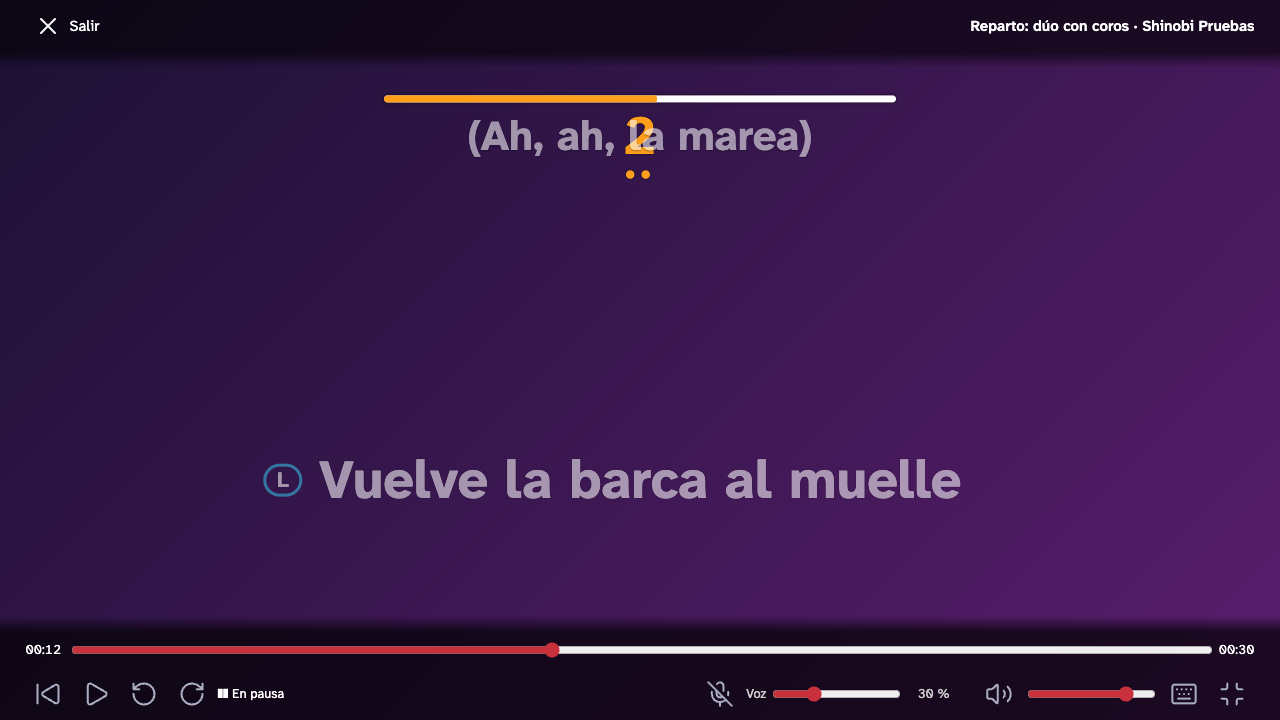
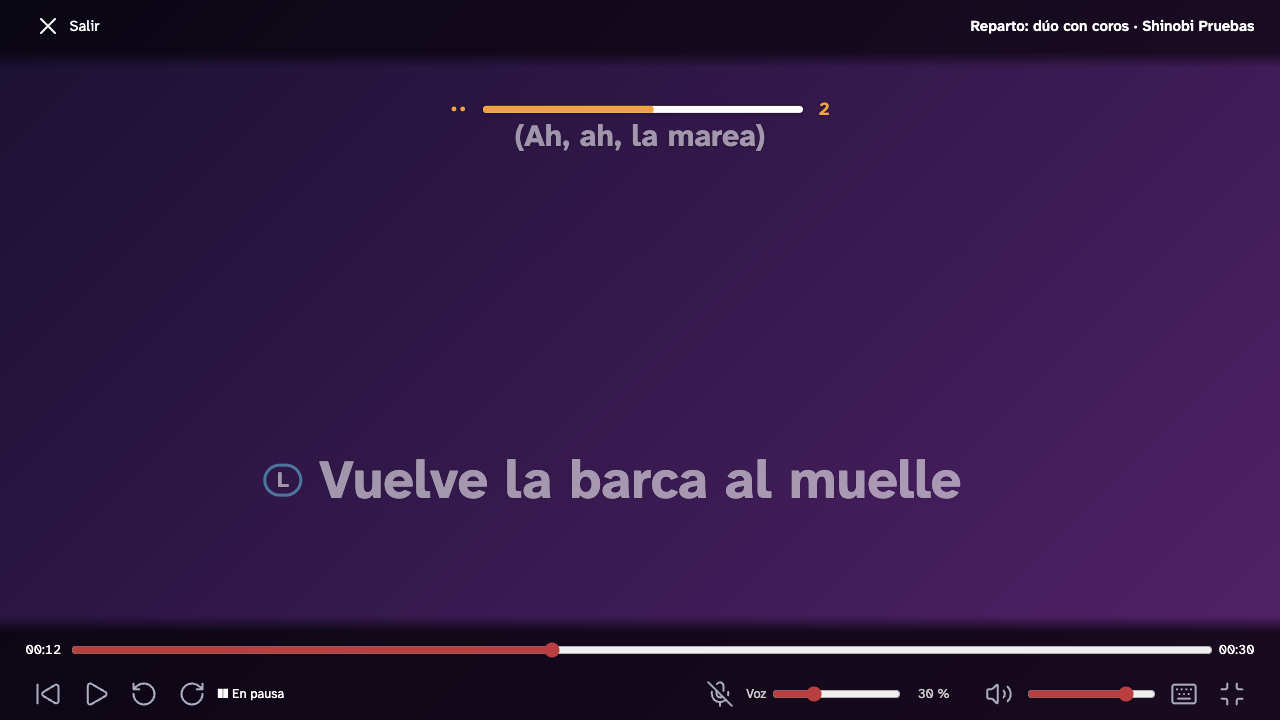
0.2.3: revisiones de diseño de las features 1, 2 y 3; pregunta 0380 respondida; specs 06 y 07 con las correcciones
Claude-Session: https://claude.ai/code/session_01CwzfmPpxsz6LQucdx3rwJV

Changed region(s): [[0.2812, 0.1222, 0.7188, 0.2139]]

diff --git a/ux/revisiones/0.2.3-feature-1/revision.md b/ux/revisiones/0.2.3-feature-1/revision.md
@@ -1,0 +1,113 @@
+# Revisión de diseño · 0.2.3 · Feature 1 — Cantantes por línea (editor)
+
+Fecha: 2026-11-23. Revisa el Diseñador UX. Alcance: **solo las capturas del editor** (`editor-*.png`, 57 archivos: 19 estados a 1280 × 720 al 100 % y al 125 % y a 1024 × 576). Las del reproductor se revisarán aparte, cuando estén regeneradas.
+
+Referencia: [06 · 0.2.3 · Feature 1](../../06-editor.md#023--feature-1--cantantes-por-línea) y [sistema visual · 0.2.3](../../sistema-visual.md#023--varios-cantantes-y-coros). Gravedad: **bloquea** (se corrige antes de cerrar la alpha) o **menor** (se puede corregir después).
+
+## Veredicto por criterio
+
+Los criterios de comportamiento (deshacer, teclas, datos) no se ven en una captura: se dan por cubiertos si los tests de la tarea los comprueban.
+
+| Criterio | Veredicto | Notas |
+|---|---|---|
+| C1-E1 | Cumple | `sin-reparto`: sin chips, sin fila «Canta», pista única, sin «Juntar carriles» y vista previa sin insignias. |
+| C1-E2 – C1-E6 | Tests | `menu-quien-canta` y `seleccion-multiple` muestran el punto de partida correcto. |
+| C1-E7 | Cumple | Dúo: Cantante 1, Cantante 2, Coro, separador, «Todos (los dos)» con T, separador, añadir y nombres. Trío: Todos con el icono `users` junto a los cantantes y antes del Coro. |
+| C1-E8 | Cumple con corrección menor | `carril-vacio`: carril con `edi.partes.carrilVacio`; la línea base de la onda atraviesa el texto (corrección 5). |
+| C1-E9 | No verificable | `funciones-cuatro` no deja ver `edi.partes.maximo`: la sección queda cortada tras «Ana» (corrección 10). |
+| C1-E10 | Cumple (lo visible) | Iniciales A, L, M; «1», «3», «4» con nombre predeterminado; Todos «A·L» en dúo e icono `users` con 3 o más. «An»/«Al»: tests. |
+| C1-E11, C1-E12 | Tests | |
+| C1-E13 | Cumple con corrección menor | Orden 1…4, Todos, Coro; un cantante con coros, dos carriles; la onda de fondo detrás de todos. La etiqueta de 72 px corta «Todos» («Tod…», «To…» con «A·L») y «Cantante» («Can…») (corrección 3). |
+| C1-E14 | No cumple | `arrastre-carril`: con la franja «+ Nuevo cantante», el carril del Coro queda debajo de la vista general, así que no se puede soltar en él; la región arrastrada no se ve y no hay carril de destino resaltado (correcciones 2 y 9). |
+| C1-E15 | No cumple (fila de controles) | Altos: sin scroll de página; zona superior ≈ 170 px a 1280 al 100 % con 6 carriles y ≈ 150 px al 125 % (≥ 136). A 1024 × 576 y al 125 %, con 4 o más carriles se juntan solos con el botón inactivo. **Pero** la fila de controles de la línea de tiempo se recorta: «Ajustar los silencios» queda como un botón vacío de unos 30 px (corrección 1). |
+| C1-E16 | Cumple | `carriles-juntos`: franja de 3 px en el color de la parte e inicial en cada región; el botón pasa a «Separar carriles». La preferencia: tests. |
+| C1-E17 | Parcial | `estilo-colores`: «Ana = Color de lo ya cantado ↑», Luis `#35C6E8` y Todos con selector; el Coro y «Más colores» quedan fuera de la captura (corrección 10). El chip de esta sección se estira a 40 px (corrección 6). |
+| C1-E18 | Tests | |
+| C1-E19 | Cumple | `aviso-parte`: ⚠ `edi.contraste.parte` con «Sugerir un color» y punto en la pestaña; dos ⓘ `edi.contraste.partesParecidas` (Ana/Coro y Luis/Todos), esperados con los colores predeterminados y sin punto (anotado en el sistema visual). |
+| C1-E20 – C1-E22 | Tests | |
+| C1-E23 | Cumple con corrección menor; falta medirlo | 256 px: chips enteros y sin scroll, pero el texto de la fila mide ≈ 100 px porque el hueco del chip ocupa ≈ 57 px; la spec pedía ≥ 160 px, cifra que no se podía alcanzar con la bandera y el tiempo de 0.2.2. La spec pasa a ≥ 96 px y C1-E23 queda medible (corrección 8). 300 px: la fila «Canta» cabe; en Funciones la ayuda toca la barra de desplazamiento (corrección 7). |
+| C1-E24 | Cumple con capturas por repetir | Están los 14 estados pedidos y 5 más; cuatro capturas por repetir y una nueva (corrección 10). |
+| C1-E25 | Sin captura | Se añade el estado `estilo-voces` a C1-E24 (corrección 10). |
+
+## Avisos del programador
+
+| Aviso | Decisión |
+|---|---|
+| «Todos» se corta a «Tod…» en el carril de 72 px | La etiqueta del carril pasa a 96 px y el nombre predeterminado se escribe «Cantante» (corrección 3). |
+| A 1024 × 576 se recorta la fila de controles | Ya incumplía AS1 («solo icono por debajo de 1280 px»), también sin reparto. «Juntar carriles» sigue la misma regla (corrección 1). |
+| C1-E23 sin medir | El criterio queda con medidas concretas y el número del texto se corrige en la spec (corrección 8). |
+| Falta `coros-preparando` | Es de la feature 2: ver [su revisión](../0.2.3-feature-2/revision.md). |
+
+## Correcciones
+
+1. **Bloquea.** Fila de controles de la línea de tiempo por debajo de 1280 px de ancho efectivo (1024 × 576 y 1280 × 720 al 125 %):
+   - «Ajustar los silencios» y «Juntar / Separar carriles» se muestran **solo con su icono** (`fold-vertical` para juntar). Llevan tooltip y nombre accesible con el texto completo y conservan `aria-pressed` y `aria-disabled` con `edi.partes.juntosSinEspacio`.
+   - Ningún botón de la fila puede ser más estrecho que su contenido.
+   - Spec: 06 · «Juntar carriles» y C1-E15.
+2. **Bloquea.** Durante un arrastre, el alto efectivo de la pista cuenta la franja «+ Nuevo cantante» (y la de Todos en un dueto) como un carril de 24 px:
+   - Ningún carril queda debajo de la vista general ni recortado.
+   - Si no cabe, cede la zona superior, como con un carril más, y todo vuelve al soltar o cancelar.
+   - Spec: 06 · «Soltar en "+ Nuevo cantante"» y C1-E15.
+3. **Menor.** La columna de etiquetas de carril pasa de 72 a 96 px:
+   - «Todos» y «Coro» caben enteros.
+   - Con el nombre predeterminado la etiqueta dice «Cantante» (el número va en el chip).
+   - Tooltip y nombre accesible con el nombre completo.
+   - Spec: 06 · «Etiqueta del carril», C1-E13 y sistema visual.
+4. **Menor.** Con carriles, los mensajes de la onda («Preparando forma de onda…», la disponibilidad tras la separación y «Forma de onda no disponible») salen de los carriles:
+   - En `coros-sin-voz`, el texto «Disponible…» asoma debajo de la primera región.
+   - Pasan a la celda vacía sobre las etiquetas: icono `audio-waveform` en `texto-3`, con tooltip y `aria-describedby`; «Reintentar» va en el tooltip y en el menú contextual de la pista.
+   - Spec: 06 · «Mensajes de la onda con carriles».
+5. **Menor.** Carril vacío: el texto `edi.partes.carrilVacio` lleva un fondo del color del carril y 8 px de relleno lateral, para que la línea base de la onda no lo atraviese. Spec: sistema visual · «Carril vacío».
+6. **Menor.** El chip de Funciones y Estilo es el mismo que en la lista:
+   - Ancho según el contenido, con un mínimo de 24 px.
+   - Va alineado en una columna de 40 px, sin estirarse a lo ancho de ella.
+   - Spec: sistema visual · «Chip de parte».
+7. **Menor.** El panel a 300 px reserva el hueco de la barra de desplazamiento (`scrollbar-gutter: stable`, o 12 px de relleno a la derecha): en `funciones-300`, «se ve» de la ayuda queda debajo de la barra. Spec: C1-E23.
+8. **Menor.** Lista:
+   - El hueco del chip mide el chip más ancho de la canción más 8 px a cada lado (hoy ≈ 57 px fijos).
+   - A 256 px el texto mide ≥ 96 px.
+   - El test de C1-E23 comprueba `scrollWidth ≤ clientWidth` en la lista, el panel y la sección, el alto de 20 px de cada chip y el ancho del texto.
+   - Spec: 06 · «Ancho» y C1-E23.
+9. **Menor.** La franja de destino («+ Nuevo cantante», «Todos») lleva el borde de destino (2 px `acento-texto`) con el puntero encima, como un carril. Spec: 06 y sistema visual · «Franja de destino».
+10. **Menor.** Capturas por repetir, a los tres tamaños, desplazando el panel hasta que la sección se vea entera (C1-E24 actualizado):
+
+    | Captura | Qué debe verse |
+    |---|---|
+    | `estilo-colores` | Hasta el Coro y «Más colores». |
+    | `funciones-varios` | Todos, Coro y «+ Añadir cantante». |
+    | `funciones-cuatro` | Hasta `edi.partes.maximo`. |
+    | `arrastre-carril` | El puntero sobre un carril de destino, con la región arrastrada visible y el borde de destino. Si la región no se dibuja durante el arrastre, el fallo es de la corrección 2 y bloquea. |
+    | `estilo-voces` (nueva) | «Letra en pantalla › Varias voces» con la nota `edi.pantalla.zonas`. |
+
+## Reproductor (segunda parte, 2026-11-23)
+
+Capturas `reproductor-*.png`: 9 estados a 1920 × 1080 y a 1280 × 720, más `cuatro-tercios-duo` a 1440 × 1080. Referencia: [07 · 0.2.3 · Feature 1](../../07-reproductor.md#023--feature-1--cantantes-por-línea-en-pantalla).
+
+| Criterio | Veredicto | Notas |
+|---|---|---|
+| C1-R1 | Tests | Es una regresión del modelo; no tiene captura. |
+| C1-R2 | Cumple | Dúo con coro: Coro arriba, con media altura y una línea; debajo, Ana y Luis. Las zonas están en el mismo sitio en todas las capturas del dúo, con la de Ana vacía en `duo-coro` sin que se recoloque nada. `solo-coros`: dos zonas, con el Coro arriba. |
+| C1-R3 | Cumple | `duo-canta-2`: la zona de Luis va al 100 %, con el barrido en `#35C6E8` y la insignia «L»; la de Ana muestra su próxima línea al 55 % sin barrido; lo que falta por cantar va en el color de la letra. |
+| C1-R4 | Cumple | `duo-todos`: la misma línea en las dos zonas, barrida en lavanda y con «A·L». `cuarteto-coro`: Todos lleva el icono `users`. |
+| C1-R5 | Cumple | La línea de coro lleva un solo par de paréntesis (el texto ya los traía) y no lleva insignia. |
+| C1-R6 | Cumple (visual) | A 1440 × 1080 la línea más ancha, con su insignia, ocupa ≈ 76 % del ancho. El cuarteto con coro a 1280 × 720 cabe sin cortes y cada línea queda dentro de su zona. El 75 % de `S` se comprueba en el test. |
+| C1-R7 | Cumple (visual) | La insignia queda a la izquierda del primer renglón sin tocarlo y su borde lleva el color de la parte. Las medidas exactas, en el test. |
+| C1-R8 | Cumple | `letra-lista-duo`: cada texto va entero en el color de su parte, sin barrido; la zona que suena al 100 % y las demás al 55 %. |
+| C1-R9 | Cumple | `espera-zona` (fila de 0360): los indicadores van en la zona del coro, en naranja, en una fila sobre la línea y sin tocarla. De izquierda a derecha: puntos, barra (25 % del ancho, porque lleva la cuenta al lado) y la cuenta «2». Antes de una línea de Todos se ve en la feature 3 (`espera-tras-solape`): una sola vez, en la primera zona y en lavanda. |
+| C1-R10, C1-R11 | Tests | No hay captura de «Todas en un bloque». La vista previa del editor coincide a ojo con el reproductor en `lista-varios` y `duo-canta-2`. |
+| C1-R12 | Cumple | Están las 19 capturas pedidas. |
+
+**Correcciones del reproductor**
+
+11. **Menor** (es de la spec y ya está corregido). 07 decía que en «Un solo cantante con coros» el Coro iba «abajo», en contra de la regla «Orden». Las capturas siguen la regla, con el Coro arriba. El texto de 07 está corregido.
+
+**Observaciones sin cambio**
+
+- `escala-de-grises`: se sigue sabiendo quién canta (por la zona, la insignia y la opacidad). Lo ya cantado en el cian de Luis queda como un gris claro, poco distinto del blanco de lo que falta, que es el caso que cubre el subrayado de 0.2.2 · F2. No se cambia nada: va a la guía manual con el simulador de deuteranopía.
+- En `duo-canta-1` y `duo-canta-2` la próxima línea de Todos sale dos veces (como próxima de una zona y como siguiente de la otra), a tamaños distintos. Es la consecuencia diseñada de que Todos no tenga zona propia (0170 n.º 4, provisional).
+
+## Observaciones sin cambio (editor)
+
+- La línea horizontal que cruza el carril central es la línea base de la onda de fondo (pista sintética sin picos): es lo esperado.
+- En la vista previa, una línea de Todos aparece en la zona de cada cantante: es lo diseñado ([07](../../07-reproductor.md), C1-R4).
+- A 1024 × 576 la lista muestra fila y media, y la cabecera «Líneas» corta el recuento cuando aparece la bandera de la revisión guiada. Ya pasaba en 0.2.2 y no es de esta feature.

diff --git a/ux/sistema-visual.md b/ux/sistema-visual.md
@@ -467,7 +467,7 @@ Comportamiento en [Editor · 0.2.3](06-editor.md#023--feature-1--cantantes-por-l
 | Cantante 2 | `#35C6E8` (cian profundo) | Revisión 2026-11-23 (pregunta 0345): sustituye a `#4ADEDE`, que frente a la letra blanca daba ΔE simulado 16,5 (protanopía) y un ⚠ en todo dúo. Con el tema «Shinobi», medido con `contraste.ts`: 5,63:1 con el fondo (peor muestra), ΔE 46,0 con la letra, ΔE simulado 31,9; sin ⚠. Sigue siendo un azul claro, distinto de rosa, lima, lavanda y naranja. (El cian `#4ADEDE` sigue entre las muestras sugeridas de §8: allí lo elige el usuario y el aviso le informa.) |
 | Cantante 3 | `#FF5C8A` (rosa) | ≈ 3,9:1 sobre `#5A1E6E` (la zona más clara del degradado). |
 | Cantante 4 | `#7CFF6B` (lima) | Con deuteranopía puede confundirse con el oro (`#FFD400`): da el ⓘ informativo. |
-| Todos | `#B388FF` (lavanda) | ≈ 4,2:1 sobre `#5A1E6E`. |
+| Todos | `#B388FF` (lavanda) | ≈ 4,2:1 sobre `#5A1E6E`. Con daltonismo se acerca al cian del Cantante 2: un dúo con Todos da el ⓘ informativo (visto en la revisión 2026-11-23; no enciende el punto de la pestaña). |
 | Coro | `#FF9F1C` (naranja) | ≈ 5,5:1 sobre `#5A1E6E`. Con daltonismo se acerca al oro: lo distinguen los paréntesis y su zona. |
 
 Valores calculados a mano con la fórmula WCAG (orientativos); el test de C1-E19 los comprueba con la función de contraste. Si alguno diese ⚠ sobre el tema «Shinobi», se cambia la ranura antes de publicar.
@@ -505,13 +505,13 @@ Valores calculados a mano con la fórmula WCAG (orientativos); el test de C1-E19
 
 | Componente | Tratamiento visual |
 |---|---|
-| **Chip de parte** (lista, panel, menú) | Píldora de 20 px de alto, ancho mínimo 24 px, radio completo, sin relleno, borde 2 px en el color de la parte, texto `t-pequeno` 600 en `texto-1` (o icono `users` 14 px). Área de clic 24 × 24. El borde es refuerzo: la inicial es la señal (sobre `fondo-1` un color de parte oscuro puede no llegar a 3:1, y no importa). Coro: «( )». |
+| **Chip de parte** (lista, panel, menú) | Píldora de 20 px de alto, ancho mínimo 24 px, radio completo, sin relleno, borde 2 px en el color de la parte, texto `t-pequeno` 600 en `texto-1` (o icono `users` 14 px). Área de clic 24 × 24. El borde es refuerzo: la inicial es la señal (sobre `fondo-1` un color de parte oscuro puede no llegar a 3:1, y no importa). Coro: «( )». El mismo chip (ancho por contenido) en la lista, el panel, el menú, Funciones y Estilo: en Funciones y Estilo va en una columna de 40 px, sin estirarse a lo ancho de ella (revisión 2026-11-23). |
 | **Texto del coro en la lista** | `texto-2` con los paréntesis dibujados. |
 | **Selección múltiple** | Fila seleccionada no principal: fondo `fondo-2` y barra izquierda de 3 px `acento-texto`; la principal, el tratamiento de selección de siempre. |
-| **Etiqueta de carril** | Columna de 72 px en `fondo-1`, borde derecho 1 px `borde`: chip + nombre `t-pequeno` `texto-2` cortado con «…». |
+| **Etiqueta de carril** | Columna de 96 px en `fondo-1` (antes 72; revisión 2026-11-23), borde derecho 1 px `borde`: chip + nombre `t-pequeno` `texto-2` cortado con «…». «Todos», «Coro» y «Cantante» (nombre predeterminado, el número va en el chip) caben enteros. |
 | **Carril** | Alto 32 px (mínimo 24); separador de 1 px `borde` entre carriles; la onda de la voz en `texto-3` de fondo detrás de todos los carriles. Carril de destino durante un arrastre: borde 2 px `acento-texto`. Carril prohibido (solo en la sección condicionada): borde 2 px `error`. |
-| **Carril vacío** | Texto `t-pequeno` `texto-3` centrado en la parte visible. |
-| **Franja de destino** («+ Nuevo cantante», «Todos») | 24 px, borde discontinuo 1 px `borde-control`, texto `t-pequeno` `texto-2`. |
+| **Carril vacío** | Texto `t-pequeno` `texto-3` centrado en la parte visible, con un fondo del color del carril y 8 px de relleno lateral para que la línea base de la onda no lo atraviese. |
+| **Franja de destino** («+ Nuevo cantante», «Todos») | 24 px, borde discontinuo 1 px `borde-control`, texto `t-pequeno` `texto-2`. Con el puntero encima: borde 2 px `acento-texto`, como un carril de destino. |
 | **Región con «Juntar carriles»** | Franja superior de 3 px en el color de la parte e inicial `t-pequeno` al principio de la región. |
 | **Selector de color de parte** | El selector de color de siempre, precedido del chip. |
 | **Deslizador «Voz en los coros»** | Deslizador de §6, ancho del panel menos el valor (56 px, `t-tiempo`) y el botón. |

diff --git a/ux/revisiones/0.2.3-feature-3/revision.md b/ux/revisiones/0.2.3-feature-3/revision.md
@@ -1,0 +1,36 @@
+# Revisión de diseño · 0.2.3 · Feature 3 — Voces a la vez (reproductor; provisional)
+
+Fecha: 2026-11-23. Revisa el Diseñador UX. Capturas: `reproductor-{1920x1080,1280x720}-{dos-voces,tres-voces-con-coro,dos-voces-final,todos-sin-solape,espera-tras-solape}.png`. Las capturas del editor de esta feature llegarán después y se revisarán aparte.
+
+Referencia: [07 · Voces a la vez](../../07-reproductor.md#voces-a-la-vez-condicionada-a-la-factibilidad-que-dictamine-el-arquitecto) (condicionada y provisional) y [06 · Voces a la vez](../../06-editor.md#voces-a-la-vez-condicionada-a-la-factibilidad-que-dictamine-el-arquitecto). Gravedad: **bloquea** (antes de cerrar la alpha) o **menor**.
+
+## Veredicto por criterio
+
+| Criterio | Veredicto | Notas |
+|---|---|---|
+| C1S-R1 | Cumple (visual) | `dos-voces`: las zonas de Cantante 1 «M» y Cantante 2 «I» están al 100 % y cada una barre por su punto. `tres-voces-con-coro`: también barre el coro. `dos-voces-final`: el coro y «I» barren mientras la zona de «M», que ya no tiene líneas, queda vacía. Los 10 instantes del solape, en el test. |
+| C1S-R2 | Cumple (visual) | `todos-sin-solape`: la línea de Todos se dibuja en las dos zonas, barrida en lavanda y con «M·I», sin otra voz a la vez. `espera-tras-solape`: los indicadores salen solo cuando no suena ninguna zona, una sola vez, en la primera zona y en el color de Todos (C1-R9), en la fila de 0360. |
+| C1S-R3 | Del arquitecto | Es la medida de la prueba técnica (60 FPS). |
+| C1S-R4 (nuevo) | A comprobar | En `tres-voces-con-coro` y `dos-voces-final`, lo ya cantado se ve menos saturado (oro, cian y naranja más pálidos) que la misma parte en `dos-voces` y que en las capturas de la feature 1. Puede ser la transición de opacidad o la compresión de la captura, pero también una mezcla de colores durante el solape. |
+
+## Correcciones
+
+1. **Menor** (bloquea si el test falla). Durante un solape, el color de lo ya cantado de cada línea es el de su parte **exacto**: sonar a la vez no mezcla, aclara ni atenúa colores.
+   - Se comprueba con el nuevo C1S-R4 (modelo y píxeles en una captura sin desenfoque).
+   - Si la diferencia viene de la subida de 55 % a 100 % (`D`), hay que repetir la captura cuando esa transición haya terminado.
+   - Spec: 07, fila «Color del barrido en un solape».
+2. **Menor.** «Todas en un bloque» con solapes (pregunta 0380):
+   - El editor muestra la nota `edi.pantalla.bloqueSolapes` con «Ver en zonas».
+   - El reproductor sigue el modelo de bloque (limitación aceptada).
+   - Spec: 06, fila «"Todas en un bloque" con solapes», C1S-E7, y 07, fila «"Todas en un bloque"».
+3. **Bloquea** (para el editor de esta feature). «Juntar carriles» con regiones solapadas: hoy una región se pinta encima de la otra y la de debajo no se puede seleccionar. Decisión:
+   - Juntar se permite siempre.
+   - La pista juntada se divide en `k` sub-filas de 24 px, siendo `k` el máximo de líneas que suenan a la vez en la canción. Cada región va en la primera sub-fila libre, en el orden de los carriles, y su sub-fila es estable al hacer zoom y al desplazar.
+   - Si las sub-filas no caben, la pista tiene scroll vertical propio, nunca de página.
+   - Sin solapes, todo queda igual.
+   - Se descarta impedir juntar, porque con poco espacio los carriles se juntan solos y no habría salida.
+   - Spec: 06, fila «"Juntar carriles" con solapes», y C1S-E6, con la captura `editor-1280x720-100-juntos-solapes.png`.
+
+## Observación sin cambio
+
+La lectura funciona: cada voz en su franja, quien canta ahora al 100 % y quien espera al 55 %, y las insignias se leen a 1280 × 720. Con tres barridos a la vez la pantalla está cargada pero se puede seguir. Se anota en la guía manual para probarlo a 5 m.

diff --git a/preguntas/0380-todas-en-un-bloque-con-voces-a-la-vez.md b/preguntas/0380-todas-en-un-bloque-con-voces-a-la-vez.md
@@ -1,0 +1,40 @@
+# 0380 — «Todas en un bloque» con voces a la vez
+
+- De: programador
+- Para: disenador-ux
+- Estado: Respondida
+- Bloquea: no (limitación aplicada)
+
+## Contexto
+
+Tarea 0360. Con «Cada una en su zona» las voces a la vez funcionan (una secuencia por zona). Con `estilo.pantalla.zonas = "una"` la canción se ve en el bloque único de 0.2.2, que es **una sola secuencia de puestos** (una línea activa, las demás futuras o ya cantadas): con solapes no puede mostrar dos líneas activas a la vez. La spec 07 dice que con «una» se ve «el mismo fotograma que una sin reparto salvo colores, insignias y paréntesis»; no dice qué pasa con los solapes.
+
+## Aplicado (conservador)
+
+Sin cambios: el bloque único sigue su modelo de siempre; con líneas que se pisan, la línea que empieza última toma el puesto activo y la anterior que aún suena sigue su barrido hasta su fin en el puesto que le toque (puede salir de pantalla o verse ya como «cantada» antes de acabar). No se rompe nada y no se escribe nada.
+
+## Pregunta
+
+¿Cómo debe verse una canción con solapes en «Todas en un bloque»?
+
+1. **Recomendada**: avisarlo en el editor. Con solapes, la opción «Todas en un bloque» muestra una nota («Esta canción tiene voces a la vez: se ven mejor en zonas»), sin impedirla.
+2. Forzar zonas cuando la canción tenga solapes, ignorando `zonas: "una"`.
+3. Dejarlo como está (limitación aceptada).
+
+## Respuesta
+
+Diseñador UX, 2026-11-23. Se elige la **opción 1** (avisar en el editor), con una acción para pasar a zonas. En el reproductor se mantiene lo aplicado, que queda como limitación aceptada.
+
+- **Por qué no la 2**: forzar zonas haría que el control del tema mintiera (dice «en un bloque» y se ve en zonas) y un tema compartido se vería distinto según la canción sin que nadie lo hubiera elegido.
+- **Por qué no la 3 sola**: quien elige «Todas en un bloque» no sabría por qué una voz se ve «cantada» antes de acabar.
+
+**Cambio exacto** (ya escrito en [06 · Voces a la vez](../ux/06-editor.md#voces-a-la-vez-condicionada-a-la-factibilidad-que-dictamine-el-arquitecto), fila «"Todas en un bloque" con solapes», y en [07 · Voces a la vez](../ux/07-reproductor.md#voces-a-la-vez-condicionada-a-la-factibilidad-que-dictamine-el-arquitecto)):
+
+- **Cuándo se ve la nota**: la canción tiene al menos una línea que se solapa con otra de otra parte y el estilo efectivo tiene `estilo.pantalla.zonas = "una"`.
+- **Dónde**: en el panel Estilo, «Letra en pantalla», justo bajo el control «Varias voces». Es una nota de nivel `aviso`, que no enciende el punto de la pestaña.
+- **Texto**, clave `edi.pantalla.bloqueSolapes`: «Esta canción tiene voces a la vez: en un bloque solo se ve una cada vez. Se ven mejor en zonas.», con el botón fantasma **[Ver en zonas]**.
+- **Qué hace «Ver en zonas»**: elige «Cada una en su zona» (`por_parte`), en un paso de deshacer de estilo. En D1/D4 (tema vinculado) pasa por «Cambiar solo en esta canción», como cualquier cambio del bloque. La nota desaparece.
+- **No se impide nada**: «Todas en un bloque» se puede seguir eligiendo y el reproductor usa el modelo de bloque de 0.2.2 tal como lo aplicaste (la línea que empieza después toma el puesto activo).
+- **Criterios**: C1S-E7 (editor) y la fila «"Todas en un bloque"» de 07. La guía manual de 0.2.3 lo anota como limitación.
+
+Lo decidido es provisional, como el resto de la sección condicionada. Si el usuario prefiere otra opción, solo cambia la nota.

diff --git a/ux/revisiones/0.2.3-feature-2/revision.md b/ux/revisiones/0.2.3-feature-2/revision.md
@@ -1,0 +1,29 @@
+# Revisión de diseño · 0.2.3 · Feature 2 — Voz en los coros (editor)
+
+Fecha: 2026-11-23. Revisa el Diseñador UX. Capturas: `editor-1280x720-100-coros-nivel.png` y `editor-1280x720-100-coros-sin-voz.png`. Falta `coros-preparando`.
+
+Referencia: [06 · 0.2.3 · Feature 2](../../06-editor.md#023--feature-2--voz-en-los-coros) y [sistema visual · 0.2.3](../../sistema-visual.md#023--varios-cantantes-y-coros). Gravedad: **bloquea** (antes de cerrar la alpha) o **menor**.
+
+## Veredicto por criterio
+
+| Criterio | Veredicto | Notas |
+|---|---|---|
+| C2-E1 | Parcial | En una canción con coros aparece el título «Voz en los coros» al final de «Cantantes y coros». No se ve el deslizador ni el 50 %, porque la sección queda cortada por debajo del borde del panel. |
+| C2-E2 – C2-E4 | Tests | |
+| C2-E5 | No verificable | En `coros-sin-voz` no se ve «Escuchar un coro» inactivo ni `edi.coros.sinVoz`: la sección queda fuera de la vista. Sí se ve el resto del estado: «Voz» e «Instrumental» inactivos y «Ajustar los silencios…» con su explicación. |
+| C2-E6 | Tests; captura pendiente | Sin `coros-preparando` no se puede revisar cómo se presenta `edi.coros.preparando`. |
+| C2-E7 | Tests | |
+| C2-E8 | No cumple | Falta una captura y las otras dos no muestran la sección. |
+
+## Correcciones
+
+1. **Bloquea** (la revisión visual de la feature 2). Repetir `coros-nivel` y `coros-sin-voz` con la sección «Voz en los coros» **entera** a la vista: deslizador, valor «50 %», ayuda, límite y «Escuchar un coro» (inactivo en `coros-sin-voz`, con su tooltip). Se puede desplazar el panel o bajar el divisor de la línea de tiempo. Así queda en C2-E8.
+2. **Bloquea** (la revisión visual de la feature 2). Añadir `coros-preparando`:
+   - Se fuerza con una mezcla de prueba que tarda más de 500 ms y con «Escuchar: Instrumental» elegido.
+   - Debe verse `edi.coros.preparando` junto al selector «Escuchar», en `t-pequeno` `texto-3`, sin spinner.
+   - Así queda en C2-E8.
+3. **Menor.** Compartida con la feature 1 ([corrección 4](../0.2.3-feature-1/revision.md#correcciones)): en `coros-sin-voz`, el aviso de la onda («Disponible…») asoma debajo de la primera región del carril del Cantante 1. Con carriles, ese mensaje pasa a la celda sobre las etiquetas.
+
+## Observación sin cambio
+
+En una canción de un solo cantante con coros, «Cantantes y coros» muestra «Repartir entre varios cantantes» y, debajo, «Voz en los coros», como pide la spec. No hace falta una fila de recuento del Coro.

diff --git a/ux/07-reproductor.md b/ux/07-reproductor.md
@@ -1063,7 +1063,7 @@ Cada parte tiene **su espacio en pantalla**: una **zona**, una franja horizontal
 
 **Línea de Todos** (cantan los dos): la misma frase en la zona de Ana y en la de Luis, las dos con el barrido en el color de Todos y la insignia «A·L» (con 3 o 4 cantantes, el icono `users`).
 
-**Un solo cantante con coros**: dos zonas, la del Cantante 1 (sin insignias) y la del Coro, abajo.
+**Un solo cantante con coros**: dos zonas, la del Coro arriba (como en el resto de la disposición) y la del Cantante 1 debajo, sin insignias (corregido en la revisión 2026-11-23: aquí decía «abajo», en contra de la regla «Orden»).
 
 ### Reglas de color
 
@@ -1136,9 +1136,12 @@ La disposición por zonas no cambia: lo único nuevo es que **varias zonas puede
 | **Todos con solape** | No aplica: Todos ya ocupa las zonas de todos los cantantes; una línea de un cantante no puede solaparse con una de Todos (lo impide el editor). |
 | **Indicadores de espera** | Solo cuando **ninguna** zona suena; en la zona de la próxima línea. |
 | **Rendimiento** | Hasta 5 barridos a la vez; lo mide la prueba técnica del arquitecto (factibilidad §4.3). |
+| **Color del barrido en un solape** | Cada barrido usa el color de su parte **exacto**, igual que sin solape: sonar a la vez no mezcla, aclara ni atenúa colores (revisión 2026-11-23). |
+| **«Todas en un bloque»** | El bloque de 0.2.2 tiene una sola línea activa: con un solape, la línea que empieza después toma el puesto activo y la anterior acaba su barrido en el puesto que le toque. Es una limitación aceptada ([0380](../preguntas/0380-todas-en-un-bloque-con-voces-a-la-vez.md)) y el editor la avisa con `edi.pantalla.bloqueSolapes`. |
 
 - C1S-R1. En un tramo en que se solapan una línea de Ana y una de coro, las dos zonas están al 100 % y cada barrido avanza con sus propios tiempos (test del modelo en 10 instantes del solape).
 - C1S-R2. Fuera de los solapes, el modelo es idéntico al de la disposición sin solapes (mismos tests C1-R2 a C1-R9).
+- C1S-R4. En cada instante del solape de C1S-R1, el color de lo ya cantado de cada línea es exactamente el de su parte (comparación del modelo y de píxeles en una captura sin desenfoque), igual que la misma línea fuera del solape.
 - C1S-R3. En la exportación a 60 FPS de un solape de 4 zonas no se pierden fotogramas en el equipo de referencia del arquitecto (medida de la prueba técnica).
 
 ## 0.2.3 · Feature 2 — Voz en los coros
